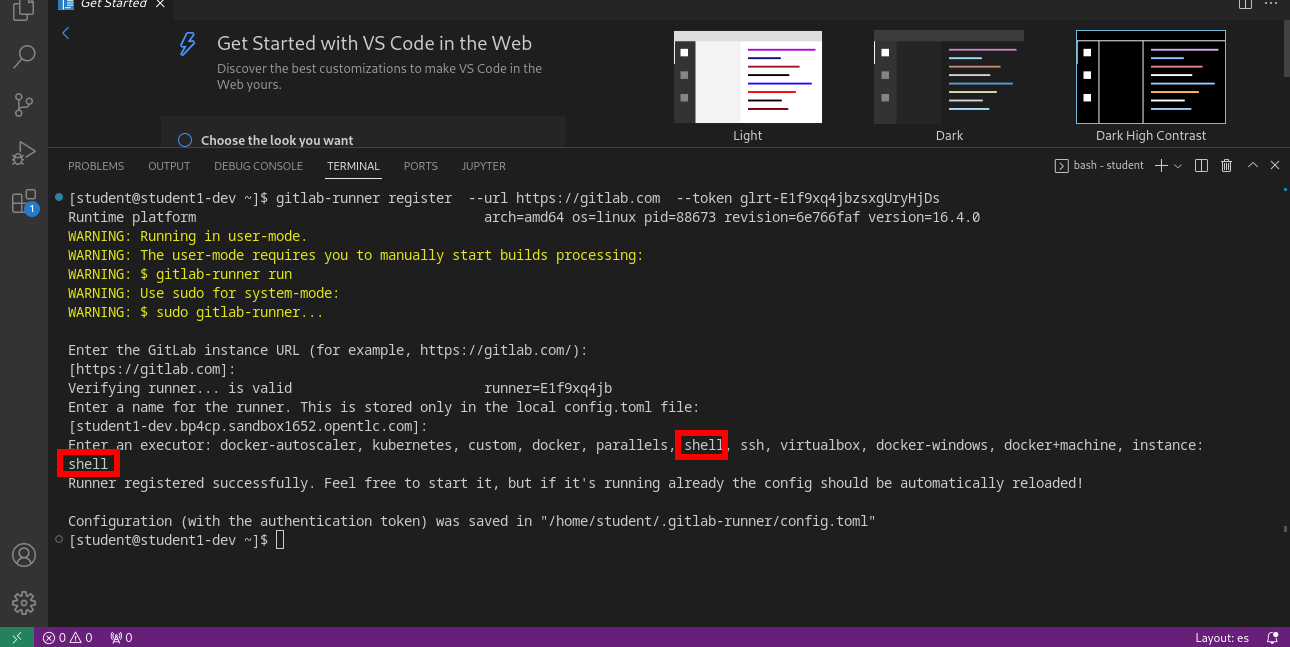
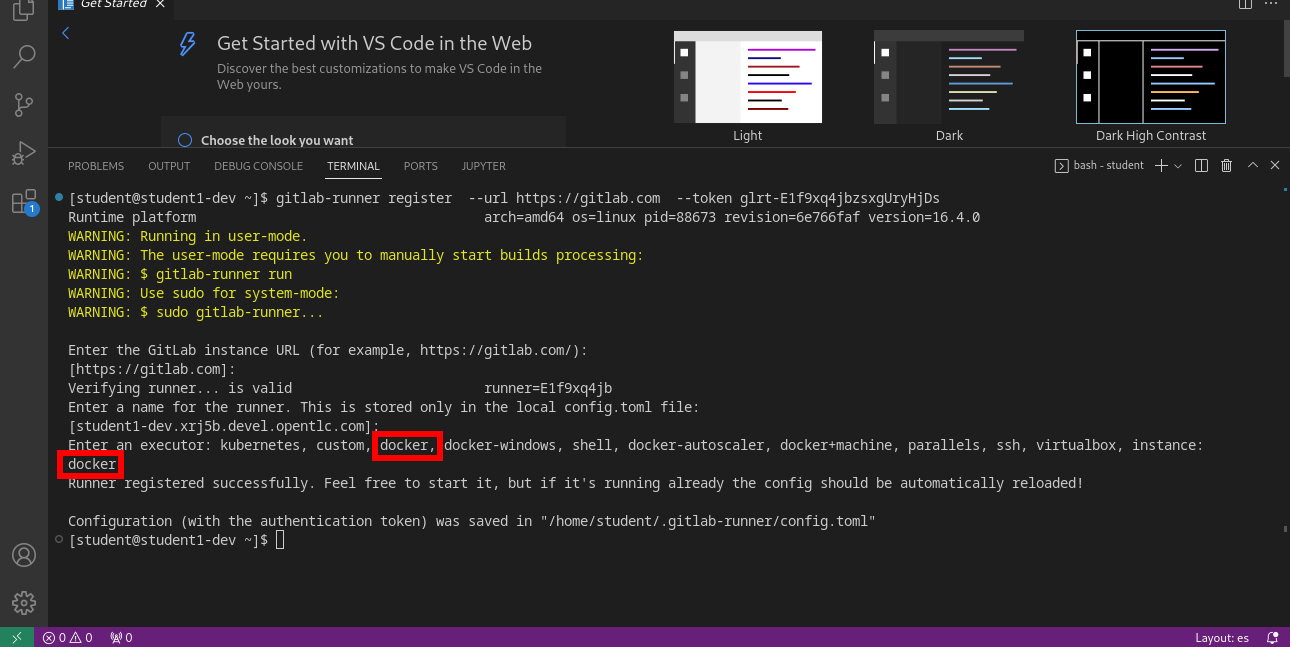
[CI] Publish Documentation for 110c027e1bbf63336fbacfb873d237129bcbc722 - 110c027e1bbf63336fbacfb873d237129bcbc722 🚀

Changed region(s): [[0.124, 0.6491, 0.8682, 0.711], [0.031, 0.6801, 0.093, 0.7419]]

diff --git a/controller-casc-cd/031-regularuser-day-zero.html b/controller-casc-cd/031-regularuser-day-zero.html
@@ -234,7 +234,68 @@
 </div>
 </div>
 <div class="sect1">
-<h2 id="_clone_the_repository_and_create_a_new_branch"><a class="anchor" href="#_clone_the_repository_and_create_a_new_branch"></a>1. Clone the repository and create a new branch</h2>
+<h2 id="_export_all_the_variables_to_be_used_in_the_next_steps"><a class="anchor" href="#_export_all_the_variables_to_be_used_in_the_next_steps"></a>1. Export all the variables to be used in the next steps</h2>
+<div class="sectionbody">
+<div class="admonitionblock important">
+<table>
+<tr>
+<td class="icon">
+<i class="fa icon-important" title="Important"></i>
+</td>
+<td class="content">
+These variables are undefined when you close your terminal session, so they need to be populated each time you open a new terminal.
+</td>
+</tr>
+</table>
+</div>
+<div class="listingblock console-input">
+<div class="title"><mark>Content with <code>&lt;CHANGE_ME&gt;</code> has to be customized</mark></div>
+<div class="content">
+<pre class="highlightjs highlight"><code class="language-console hljs" data-lang="console">export ORGNAME='&lt;CHANGE_ME&gt;'
+export PROJECT_URL_CASC='&lt;CHANGE_ME&gt;'
+export SSH_PRIVATE_KEY_FILE='&lt;CHANGE_ME&gt;'
+export GITLAB_USERNAME='&lt;CHANGE_ME&gt;'
+export GITLAB_EMAIL='&lt;CHANGE_ME&gt;'
+export VAULT_PASSWORD='&lt;CHANGE_ME&gt;'
+# export GITLAB_API_TOKEN='&lt;CHANGE_ME&gt;'
+# export AAP_USER_NAME='&lt;CHANGE_ME&gt;'
+# export AAP_USER_PASSWORD='&lt;CHANGE_ME&gt;'
+# export AAP_USER_EMAIL='&lt;CHANGE_ME&gt;'
+# export AAP_USER_FIRSTNAME='&lt;CHANGE_ME&gt;'
+# export AAP_USER_LASTNAME='&lt;CHANGE_ME&gt;'
+# export ADMIN_DEV_PASSWORD='&lt;CHANGE_ME&gt;'
+# export ADMIN_PRO_PASSWORD='&lt;CHANGE_ME&gt;'</code></pre>
+</div>
+</div>
+<div class="paragraph">
+<p>Where:</p>
+</div>
+<div class="ulist">
+<ul>
+<li>
+<p>ORGNAME: Organization name</p>
+</li>
+<li>
+<p>PROJECT_URL_CASC: Project URL (SSH format)</p>
+</li>
+<li>
+<p>SSH_PRIVATE_KEY_FILE: the private SSH key file that corresponds to the public SSH key attached to your gitlab account (<a href="#GITLAB_SSH_PUBLIC_KEY">see prerequisites</a>).</p>
+</li>
+<li>
+<p>GITLAB_USERNAME: GitLab user name</p>
+</li>
+<li>
+<p>GITLAB_EMAIL: GitLab user email address</p>
+</li>
+<li>
+<p>VAULT_PASSWORD: Ansible Vault password</p>
+</li>
+</ul>
+</div>
+</div>
+</div>
+<div class="sect1">
+<h2 id="_clone_the_repository_and_create_a_new_branch"><a class="anchor" href="#_clone_the_repository_and_create_a_new_branch"></a>2. Clone the repository and create a new branch</h2>
 <div class="sectionbody">
 <div class="admonitionblock note">
 <table>
@@ -251,17 +312,13 @@
 </table>
 </div>
 <div class="listingblock console-input">
-<div class="title">Export the repository URL <mark>Content with <code>&lt;CHANGE_ME&gt;</code> has to be customized</mark></div>
-<div class="content">
-<pre class="highlightjs highlight"><code class="language-console hljs" data-lang="console">read -e -s -p ">>> Organization Name: " ORGNAME
-read -e -s -p ">>> Git Organization URL (SSH)" GITORG</code></pre>
-</div>
-</div>
-<div class="listingblock console-input">
 <div class="title">The first step is cloning the repository</div>
 <div class="content">
-<pre class="highlightjs highlight"><code class="language-console hljs" data-lang="console">git clone ${GITORG}
+<pre class="highlightjs highlight"><code class="language-console hljs" data-lang="console">ssh-add ~/.ssh/id_rsa_gitlab
+git clone ${PROJECT_URL_CASC}
 cd ${ORGNAME}/
+git config user.email "${GITLAB_EMAIL}"
+git config user.name "${GITLAB_USERNAME}"
 git checkout -b casc-dev-day0</code></pre>
 </div>
 </div>
@@ -278,14 +335,53 @@ git checkout -b casc-dev-day0</code></pre>
 </div>
 </div>
 </details>
+<details>
+<summary class="title">Enable an already existing SSH key the repository:</summary>
+<div class="content">
+<div class="imageblock">
+<div class="content">
+<img src="_images/configure_gitlab_add_existing_ssh_key.png" alt="configure gitlab add existing ssh key">
+</div>
+</div>
+<div class="imageblock">
+<div class="content">
+<img src="_images/configure_gitlab_add_existing_ssh_key_2.png" alt="configure gitlab add existing ssh key 2">
+</div>
+</div>
+<div class="imageblock">
+<div class="content">
+<img src="_images/configure_gitlab_add_existing_ssh_key_3.png" alt="configure gitlab add existing ssh key 3">
+</div>
+</div>
+</div>
+</details>
 <div class="paragraph">
 <p>Before using CasC as a GitOps approach, it is needed to launch an initialization from CLI which it is called Day-Zero.</p>
 </div>
 </div>
 </div>
 <div class="sect1">
-<h2 id="_edit_credentials_to_connect_to_the_controller_for_day_zero"><a class="anchor" href="#_edit_credentials_to_connect_to_the_controller_for_day_zero"></a>2. Edit credentials to connect to the controller for day zero.</h2>
+<h2 id="_creating_the_vault_password_file"><a class="anchor" href="#_creating_the_vault_password_file"></a>3. Creating the <code>.vault_password</code> file</h2>
 <div class="sectionbody">
+<div class="listingblock console-input">
+<div class="content">
+<pre class="highlightjs highlight"><code class="language-bash hljs" data-lang="bash">echo "${VAULT_PASSWORD}" &gt; .vault_password</code></pre>
+</div>
+</div>
+</div>
+</div>
+<div class="sect1">
+<h2 id="_edit_credentials_to_connect_to_the_controller_for_day_zero"><a class="anchor" href="#_edit_credentials_to_connect_to_the_controller_for_day_zero"></a>4. Edit credentials to connect to the controller for day zero.</h2>
+<div class="sectionbody">
+<div class="paragraph">
+<p>The default credentials for the new organization admin user are similar to the following ones:</p>
+</div>
+<div class="listingblock">
+<div class="content">
+<pre class="highlightjs highlight"><code class="language-yaml hljs" data-lang="yaml">username: org1admin # &lt;ORGNAME&gt;admin
+password: initialadminpass</code></pre>
+</div>
+</div>
 <div class="listingblock console-input">
 <div class="content">
 <pre class="highlightjs highlight"><code class="language-bash hljs" data-lang="bash">vi group_vars/dev/configure_connection_controller_credentials.yml</code></pre>
@@ -298,13 +394,15 @@ git checkout -b casc-dev-day0</code></pre>
 </div>
 <div class="listingblock console-input">
 <div class="content">
-<pre class="highlightjs highlight"><code class="language-bash hljs" data-lang="bash">ansible-vault encrypt group_vars/dev/configure_connection_controller_credentials.yml group_vars/pro/configure_connection_controller_credentials.yml</code></pre>
+<pre class="highlightjs highlight"><code class="language-bash hljs" data-lang="bash">ansible-vault encrypt --vault-password-file .vault_password \
+  group_vars/dev/configure_connection_controller_credentials.yml \
+  group_vars/pro/configure_connection_controller_credentials.yml</code></pre>
 </div>
 </div>
 </div>
 </div>
 <div class="sect1">
-<h2 id="_edit_credentials_objects"><a class="anchor" href="#_edit_credentials_objects"></a>3. Edit credentials objects</h2>
+<h2 id="_edit_credentials_objects"><a class="anchor" href="#_edit_credentials_objects"></a>5. Edit credentials objects</h2>
 <div class="sectionbody">
 <div class="listingblock console-input">
 <div class="content">
@@ -318,13 +416,15 @@ git checkout -b casc-dev-day0</code></pre>
 </div>
 <div class="listingblock console-input">
 <div class="content">
-<pre class="highlightjs highlight"><code class="language-bash hljs" data-lang="bash">ansible-vault encrypt orgs_vars/${ORGNAME}/env/pro/controller_credentials.d/* orgs_vars/${ORGNAME}/env/dev/controller_credentials.d/*</code></pre>
+<pre class="highlightjs highlight"><code class="language-bash hljs" data-lang="bash">ansible-vault encrypt --vault-password-file .vault_password \
+  orgs_vars/${ORGNAME}/env/pro/controller_credentials.d/* \
+  orgs_vars/${ORGNAME}/env/dev/controller_credentials.d/*</code></pre>
 </div>
 </div>
 </div>
 </div>
 <div class="sect1">
-<h2 id="_check_the_inventory_file"><a class="anchor" href="#_check_the_inventory_file"></a>4. Check the inventory file</h2>
+<h2 id="_check_the_inventory_file"><a class="anchor" href="#_check_the_inventory_file"></a>6. Check the inventory file</h2>
 <div class="sectionbody">
 <div class="listingblock console-input">
 <div class="content">
@@ -348,19 +448,7 @@ aap22prod.iam.lab</code></pre>
 </div>
 </div>
 <div class="sect1">
-<h2 id="_creating_the_vault_password_file"><a class="anchor" href="#_creating_the_vault_password_file"></a>5. Creating the <code>.vault_password</code> file</h2>
-<div class="sectionbody">
-<div class="listingblock console-input">
-<div class="title"><mark>Content with <code>&lt;CHANGE_ME&gt;</code> has to be customized</mark></div>
-<div class="content">
-<pre class="highlightjs highlight"><code class="language-bash hljs" data-lang="bash">read -e -s -p "Enter Vault password: " VAULT_PASSWORD
-echo "${VAULT_PASSWORD}" &gt; .vault_password</code></pre>
-</div>
-</div>
-</div>
-</div>
-<div class="sect1">
-<h2 id="_launch_ansible_navigator_from_cli_to_setup_day_zero_of_casc"><a class="anchor" href="#_launch_ansible_navigator_from_cli_to_setup_day_zero_of_casc"></a>6. Launch ansible-navigator from CLI to setup day-zero of CasC</h2>
+<h2 id="_launch_ansible_navigator_from_cli_to_setup_day_zero_of_casc"><a class="anchor" href="#_launch_ansible_navigator_from_cli_to_setup_day_zero_of_casc"></a>7. Launch ansible-navigator from CLI to setup day-zero of CasC</h2>
 <div class="sectionbody">
 <div class="paragraph">
 <p>This step is needed for the day-zero, and is also useful when developing new changes, to apply them without pushing them to the GitLab repository and trigger the CaC workflow.</p>
@@ -392,7 +480,7 @@ echo "${VAULT_PASSWORD}" &gt; .vault_password</code></pre>
 </div>
 </div>
 <div class="sect1">
-<h2 id="_push_the_changes"><a class="anchor" href="#_push_the_changes"></a>7. Push the changes</h2>
+<h2 id="_push_the_changes"><a class="anchor" href="#_push_the_changes"></a>8. Push the changes</h2>
 <div class="sectionbody">
 <div class="listingblock console-input">
 <div class="content">
@@ -405,8 +493,22 @@ git push origin casc-dev-day0</code></pre>
 </div>
 </div>
 <div class="sect1">
-<h2 id="_pomote_the_casc_dev_day0_branch_to_dev_dev_branch"><a class="anchor" href="#_pomote_the_casc_dev_day0_branch_to_dev_dev_branch"></a>8. Pomote the <code>casc-dev-day0</code> branch to dev (<code>dev</code> branch)</h2>
+<h2 id="_promote_the_casc_dev_day0_branch_to_dev_dev_branch"><a class="anchor" href="#_promote_the_casc_dev_day0_branch_to_dev_dev_branch"></a>9. Promote the <code>casc-dev-day0</code> branch to dev (<code>dev</code> branch)</h2>
 <div class="sectionbody">
+<div class="admonitionblock important">
+<table>
+<tr>
+<td class="icon">
+<i class="fa icon-important" title="Important"></i>
+</td>
+<td class="content">
+<div class="paragraph">
+<p>In order for the GitLab Actions to run successfully, a GitLab Runner must be configured for the GitLab project, following the same steps described <a href="021-initial-dir-and-files.html#_housekeeping" class="xref page" target="_blank" rel="noopener">here</a>.</p>
+</div>
+</td>
+</tr>
+</table>
+</div>
 <div class="ulist">
 <ul>
 <li>
@@ -433,12 +535,20 @@ git push origin casc-dev-day0</code></pre>
 </div>
 </div>
 </li>
+<li>
+<p>Check that the Merge Request has triggered the CasC Job at the <code>DEV</code> Controller:</p>
+<div class="imageblock">
+<div class="content">
+<img src="_images/newmrtodev-0-step4.png" alt="CasC Jobs">
+</div>
+</div>
+</li>
 </ul>
 </div>
 </div>
 </div>
 <div class="sect1">
-<h2 id="_promote_the_dev_branch_to_pro_pro_branch"><a class="anchor" href="#_promote_the_dev_branch_to_pro_pro_branch"></a>9. Promote the <code>dev</code> branch to pro (<code>pro</code> branch)</h2>
+<h2 id="_promote_the_dev_branch_to_pro_pro_branch"><a class="anchor" href="#_promote_the_dev_branch_to_pro_pro_branch"></a>10. Promote the <code>dev</code> branch to pro (<code>pro</code> branch)</h2>
 <div class="sectionbody">
 <div class="ulist">
 <ul>

diff --git a/controller-casc-cd/033-regularuser-day-two-deploy-objects.html b/controller-casc-cd/033-regularuser-day-two-deploy-objects.html
@@ -358,20 +358,64 @@ git push -u origin creation_new_objects</code></pre>
 </div>
 <div class="sect2">
 <h3 id="_check_new_objects_in_the_organization_for_the_pro_controller"><a class="anchor" href="#_check_new_objects_in_the_organization_for_the_pro_controller"></a>3.3. Check new objects in the Organization for the <code>pro</code> controller</h3>
+<div class="admonitionblock note">
+<table>
+<tr>
+<td class="icon">
+<i class="fa icon-note" title="Note"></i>
+</td>
+<td class="content">
 <div class="paragraph">
-<p>Go to <mark>ToDo URL jobs</mark>  and check that <mark>To Do job names</mark> were finished well.</p>
+<p>The following examples will use the Ansible Automation Controller base URL <code>&lt;CHANGE_ME&gt;</code>, which should be customized as needed.</p>
 </div>
-<div class="paragraph">
-<p>Go to <mark>ToDo URL projects</mark>  and check that %ORGNAME% New Job Template was created.</p>
+</td>
+</tr>
+</table>
 </div>
-<div class="paragraph">
-<p>Go to <mark>ToDo URL job_template</mark>  and check that %ORGNAME%_project_example was created.</p>
+<div class="sect3">
+<h4 id="_go_to_change_mejobs_and_check_that_the_jobs_for_cac_superadmin_org_casc_ctrl_drop_diff_and_superadmin_org_casc_ctrl_config_finished_successfully_2"><a class="anchor" href="#_go_to_change_mejobs_and_check_that_the_jobs_for_cac_superadmin_org_casc_ctrl_drop_diff_and_superadmin_org_casc_ctrl_config_finished_successfully_2"></a>3.3.1. Go to <code>&lt;CHANGE_ME&gt;#/jobs</code> and check that the jobs for CaC <code>${SUPERADMIN_ORG} CasC Ctrl Drop Diff</code> and <code>${SUPERADMIN_ORG} CasC Ctrl Config</code> finished successfully:</h4>
+<div class="imageblock">
+<div class="content">
+<img src="_images/regular-user-webhook-jobs-pro-1.png" alt="Regular User Webhook Triggered Jobs">
 </div>
-<div class="paragraph">
-<p>Go to <mark>ToDo URL inventory</mark>  and check that %ORGNAME% Localhost was created and it has a host <mark>ToDo URL host inventory</mark></p>
 </div>
-<div class="paragraph">
-<p>Go to <mark>ToDo URL credential</mark>  and check that %ORGNAME% Gitlab Credential %ORGNAME%_project_example was created.</p>
+</div>
+<div class="sect3">
+<h4 id="_go_to_change_meprojects_and_check_that_superadmin_org_project_example_was_created_2"><a class="anchor" href="#_go_to_change_meprojects_and_check_that_superadmin_org_project_example_was_created_2"></a>3.3.2. Go to <code>&lt;CHANGE_ME&gt;#/projects</code> and check that <code>${SUPERADMIN_ORG}_project_example</code> was created:</h4>
+<div class="imageblock">
+<div class="content">
+<img src="_images/regular-user-webhook-projects-pro-1.png" alt="Regular User Webhook Created Projects">
+</div>
+</div>
+</div>
+<div class="sect3">
+<h4 id="_go_to_change_metemplates_and_check_that_superadmin_org_new_job_template_was_created_2"><a class="anchor" href="#_go_to_change_metemplates_and_check_that_superadmin_org_new_job_template_was_created_2"></a>3.3.3. Go to <code>&lt;CHANGE_ME&gt;#/templates</code> and check that <code>${SUPERADMIN_ORG} New Job Template</code> was created:</h4>
+<div class="imageblock">
+<div class="content">
+<img src="_images/regular-user-webhook-templates-pro-1.png" alt="Regular User Webhook Created Job Templates">
+</div>
+</div>
+</div>
+<div class="sect3">
+<h4 id="_go_to_change_meinventories_and_check_that_superadmin_org_localhost_was_created_and_it_has_a_host_2"><a class="anchor" href="#_go_to_change_meinventories_and_check_that_superadmin_org_localhost_was_created_and_it_has_a_host_2"></a>3.3.4. Go to <code>&lt;CHANGE_ME&gt;#/inventories</code> and check that <code>${SUPERADMIN_ORG} Localhost</code> was created and it has a host:</h4>
+<div class="imageblock">
+<div class="content">
+<img src="_images/regular-user-webhook-inventory-pro-1.png" alt="Regular User Webhook Created Inventory">
+</div>
+</div>
+<div class="imageblock">
+<div class="content">
+<img src="_images/regular-user-webhook-inventory-pro-2.png" alt="Regular User Webhook Created Inventory Host">
+</div>
+</div>
+</div>
+<div class="sect3">
+<h4 id="_go_to_change_mecredentials_and_check_that_superadmin_org_dev_was_created_2"><a class="anchor" href="#_go_to_change_mecredentials_and_check_that_superadmin_org_dev_was_created_2"></a>3.3.5. Go to <code>&lt;CHANGE_ME&gt;#/credentials</code> and check that <code>${SUPERADMIN_ORG} dev *</code> was created:</h4>
+<div class="imageblock">
+<div class="content">
+<img src="_images/regular-user-webhook-credentials-pro-1.png" alt="Regular User Webhook Created Credentials">
+</div>
+</div>
 </div>
 </div>
 </div>

diff --git a/controller-casc-cd/021-initial-dir-and-files.html b/controller-casc-cd/021-initial-dir-and-files.html
@@ -845,6 +845,15 @@ EOF</code></pre>
 <div class="olist arabic">
 <ol class="arabic">
 <li>
+<p>Configure the <code>DEV</code> Ansible Controller host to be docker compatible:</p>
+<div class="listingblock console-input">
+<div class="content">
+<pre class="highlightjs highlight"><code class="language-console hljs" data-lang="console">sudo dnf install -y podman-docker
+sudo systemctl enable --now podman.socket</code></pre>
+</div>
+</div>
+</li>
+<li>
 <p>In the GitLab repository created at the first step, go to <code>Settings</code> &#8594; <code>CI/CD</code> &#8594; <code>Runners</code> &#8594; <code>Project Runners</code> &#8594; <code>New Project Runner</code>:</p>
 <div class="paragraph">
 <p><span class="image"><img src="_images/gitlab-new-runner-1.png" alt="gitlab new runner 1"></span></p>
@@ -887,7 +896,7 @@ EOF</code></pre>
 <p><span class="image"><img src="_images/gitlab-new-runner-4.png" alt="gitlab new runner 4"></span></p>
 </div>
 <div class="paragraph">
-<p>Enter the <code>shell</code> executor when asked:</p>
+<p>Enter the <code>docker</code> executor when asked:</p>
 </div>
 <div class="paragraph">
 <p><span class="image"><img src="_images/gitlab-new-runner-5.png" alt="gitlab new runner 5"></span></p>
